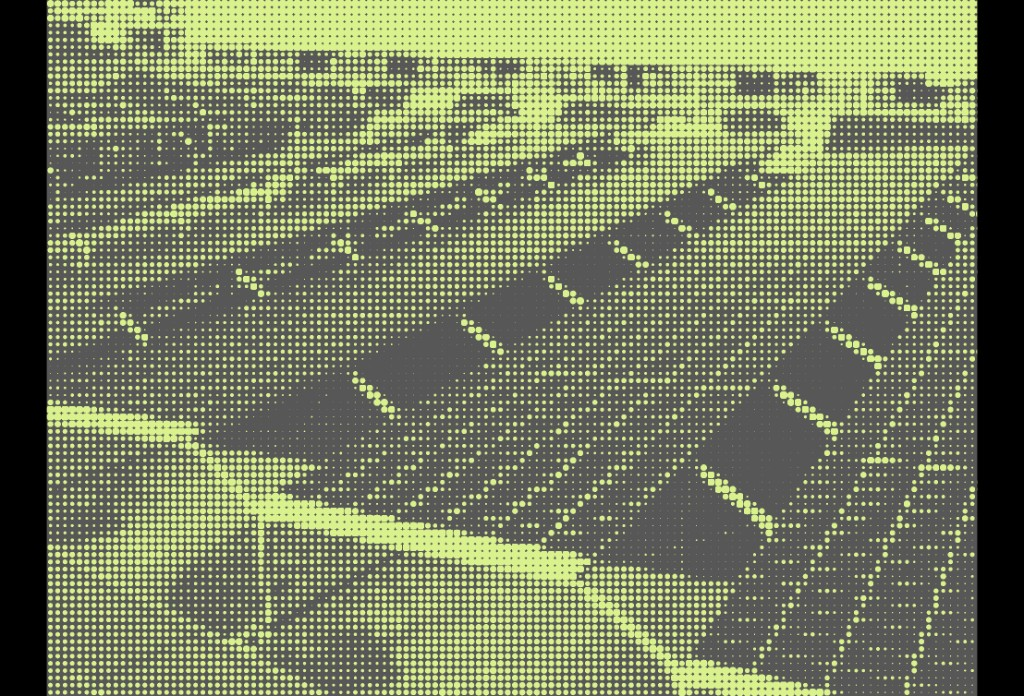
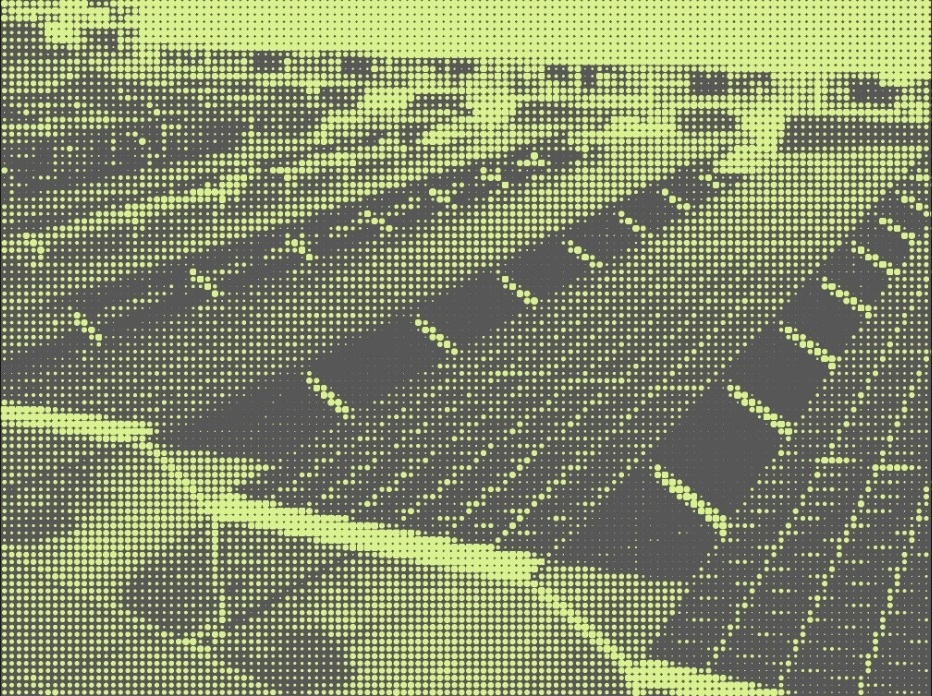
Recadrer les couvertures d'articles et supprimer les bandes noires.
Retire le letterboxing des visuels APER et prospection B2B, puis affiche
les images en ratio naturel sans zoom CSS object-cover.

diff --git a/solarview-site/app/[locale]/articles/page.tsx b/solarview-site/app/[locale]/articles/page.tsx
@@ -92,12 +92,13 @@ export default async function ArticlesPage({
           <section className="mt-10 grid gap-6 md:grid-cols-2">
             {articles.map((article) => (
               <article key={article.slug} className="rounded-xl border border-border bg-card p-6">
-                <div className="relative mb-4 aspect-[16/9] overflow-hidden rounded-md">
+                <div className="mb-4 overflow-hidden rounded-md">
                   <Image
                     src={article.coverImage}
                     alt={article.title}
-                    fill
-                    className="object-cover"
+                    width={1024}
+                    height={696}
+                    className="h-auto w-full"
                     sizes="(min-width: 768px) 50vw, 100vw"
                   />
                 </div>

diff --git a/solarview-site/app/[locale]/articles/[slug]/page.tsx b/solarview-site/app/[locale]/articles/[slug]/page.tsx
@@ -146,12 +146,13 @@ export default async function ArticlePage({
               <p className="mt-3 text-muted-foreground">{article.excerpt}</p>
             </header>
 
-            <div className="relative mt-8 aspect-[3/2] max-w-3xl overflow-hidden rounded-xl border border-border">
+            <div className="mt-8 max-w-3xl overflow-hidden rounded-xl border border-border">
               <Image
                 src={article.coverImage}
                 alt={article.title}
-                fill
-                className="object-cover"
+                width={1024}
+                height={696}
+                className="h-auto w-full"
                 sizes="(min-width: 1024px) 768px, 100vw"
                 priority
               />
